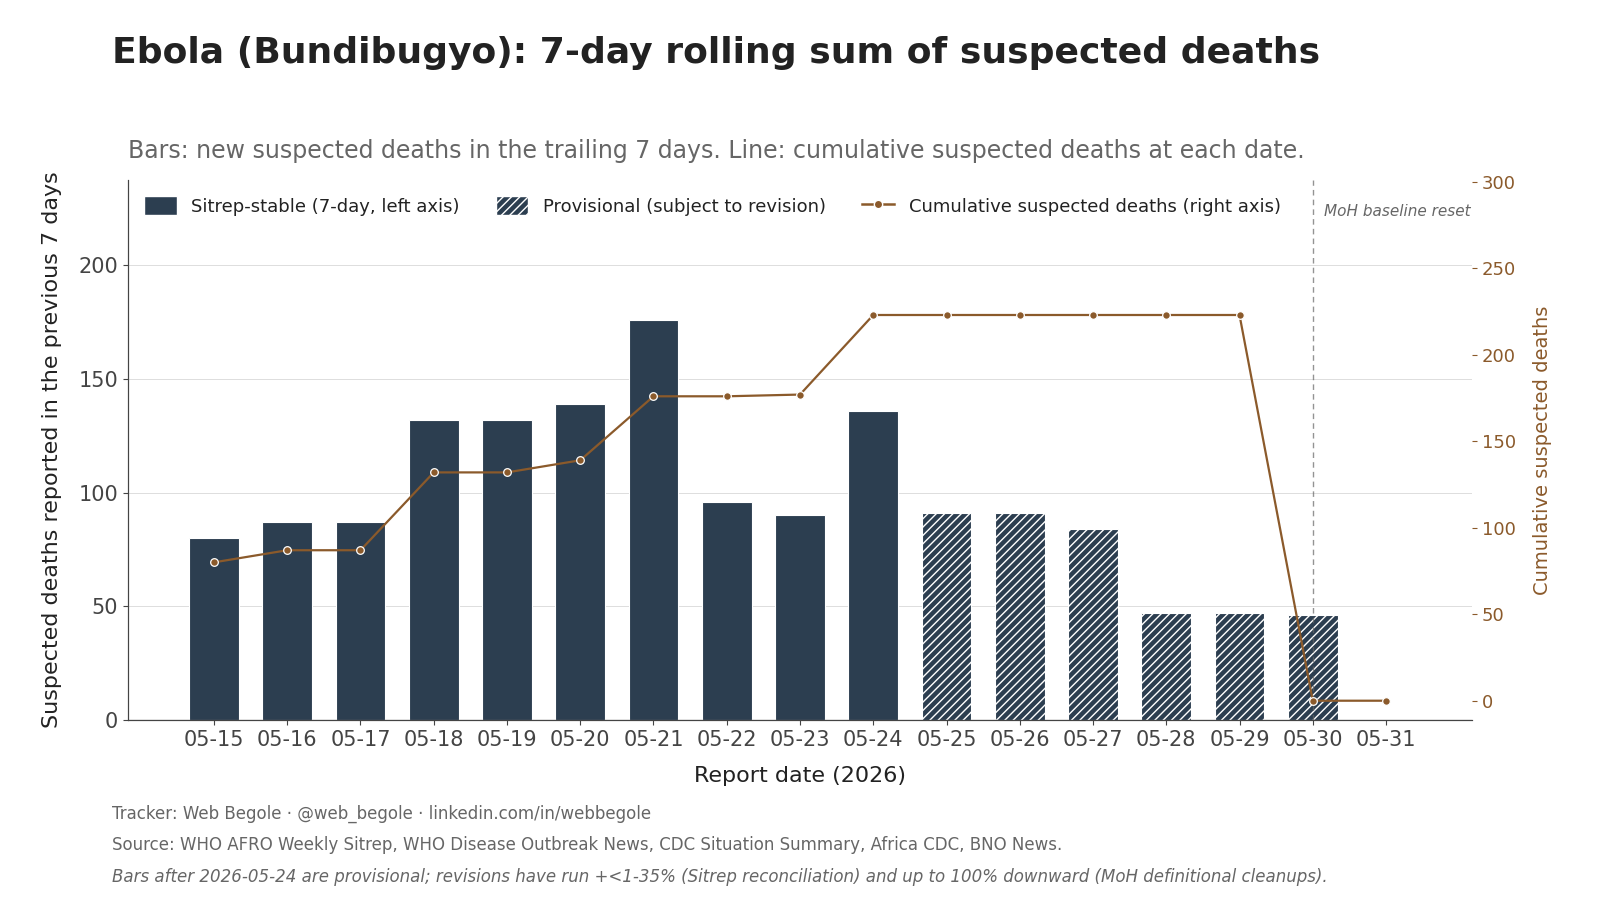
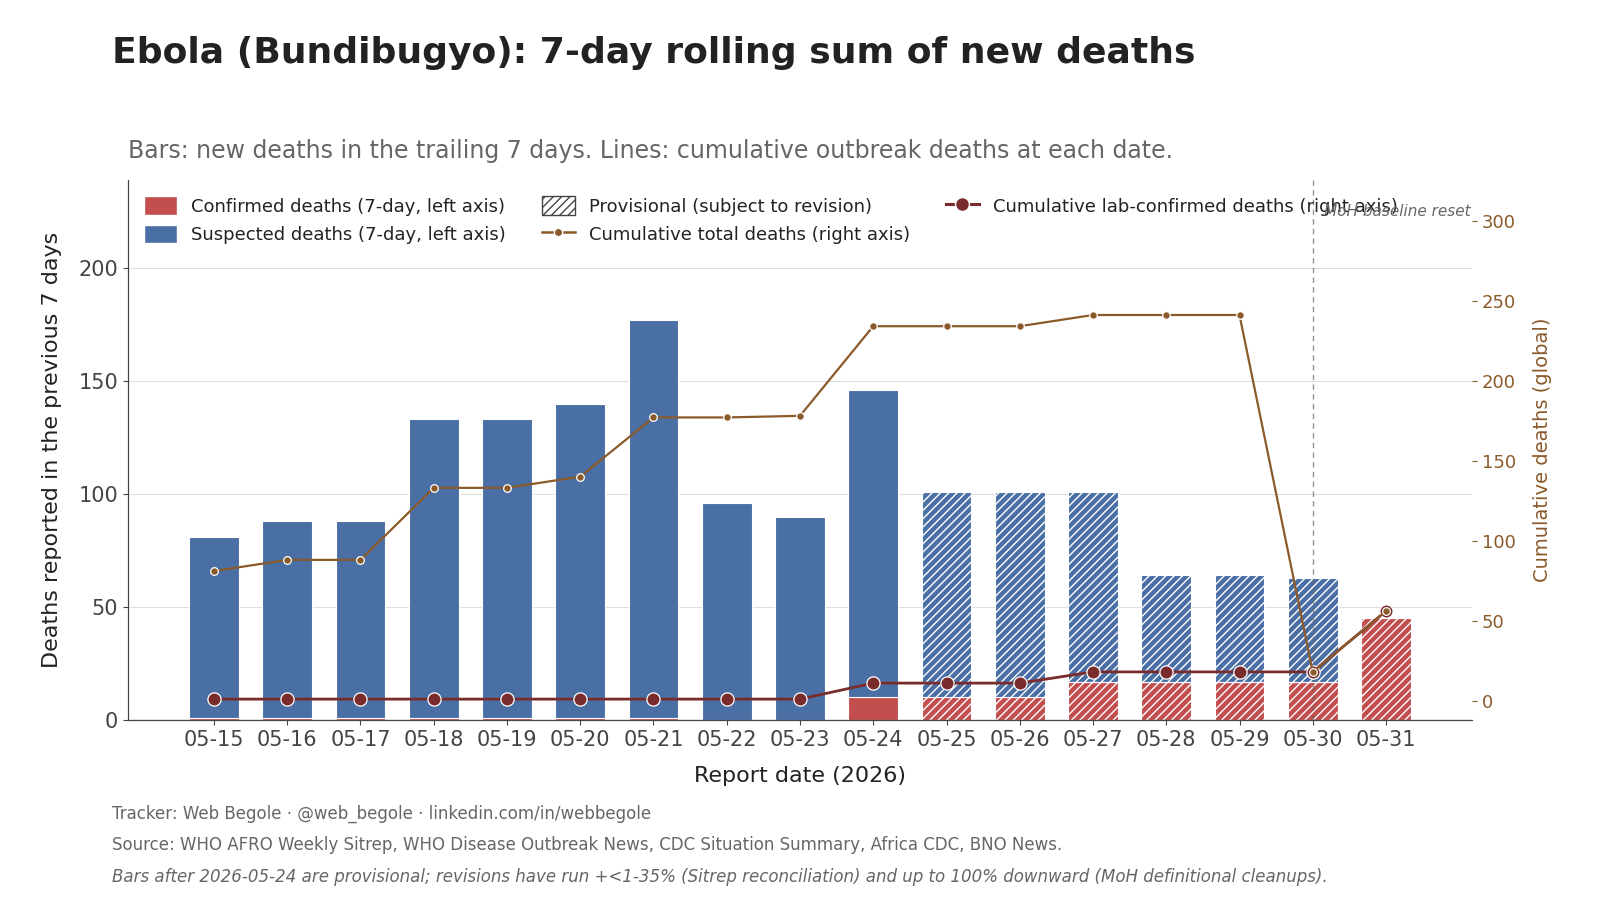
Schema: add confirmed_deaths_global column; restructure deaths chart
The deaths chart was showing 0 new deaths in the 7-day rolling window on
May 31, technically true for the suspected-deaths column but materially
misleading: DRC ran +38 lab confirmations of previously-probable deaths on
that date, and they live in confirmed_deaths, which the chart didn't know
about.

- Add confirmed_deaths_global column to data/timeseries.csv (column 6).
  Backfill historical values from country_breakdown.csv DRC + Uganda sums.
- Update validate.py: schema check, parse loop, cumulative non-decreasing.
- Update build_xlsx.py: main sheet header, Charts sheet daily-delta and
  rolling-sum derivation.
- Restructure render_deaths_chart to mirror render_cases_chart: stacked
  confirmed (bottom) + suspected (top) bars; cumulative-line overlay with
  total deaths (bronze) and confirmed-only (deep red). Title updated from
  'suspected deaths' to 'new deaths'.
- Refresh project-folder captions to use the new schema.

diff --git a/src/generate_charts.py b/src/generate_charts.py
@@ -136,8 +136,9 @@ def load_data(csv_path: Path):
     """Load timeseries.csv and compute daily deltas + 7-day rolling sums.
 
     Returns a list of per-row dicts with keys: date, d_sus, d_conf, d_deaths,
-    cum_sus, cum_conf, cum_total_cases, cum_deaths, r7_sus, r7_conf,
-    r7_deaths, window_size.
+    d_conf_deaths, cum_sus, cum_conf, cum_total_cases, cum_deaths,
+    cum_conf_deaths, cum_total_deaths, r7_sus, r7_conf, r7_deaths,
+    r7_conf_deaths, window_size.
     """
     rows = []
     with open(csv_path, newline="") as f:
@@ -151,6 +152,7 @@ def load_data(csv_path: Path):
                 "sus": int(r["suspected_global"]) if r["suspected_global"] else 0,
                 "conf": int(r["confirmed_global"]) if r["confirmed_global"] else 0,
                 "deaths": int(r["suspected_deaths_global"]) if r["suspected_deaths_global"] else 0,
+                "conf_deaths": int(r["confirmed_deaths_global"]) if r["confirmed_deaths_global"] else 0,
             })
 
     # Baseline: May 14 = 0 across all metrics, so the first row's delta equals
@@ -163,7 +165,7 @@ def load_data(csv_path: Path):
     # bar on the rolling-sum chart. We force the daily delta to zero on the
     # reset day; the cleaned baseline becomes prev for the next iteration so
     # subsequent days compute normal positive deltas against it.
-    baseline = {"sus": 0, "conf": 0, "deaths": 0}
+    baseline = {"sus": 0, "conf": 0, "deaths": 0, "conf_deaths": 0}
     deltas = []
     prev = baseline
     for cur in rows:
@@ -173,6 +175,7 @@ def load_data(csv_path: Path):
             "d_sus": 0 if is_reset else cur["sus"] - prev["sus"],
             "d_conf": 0 if is_reset else cur["conf"] - prev["conf"],
             "d_deaths": 0 if is_reset else cur["deaths"] - prev["deaths"],
+            "d_conf_deaths": 0 if is_reset else cur["conf_deaths"] - prev["conf_deaths"],
             "is_reset": is_reset,
             # Carry the cumulative running totals through so the renderers can
             # plot a secondary "cumulative outbreak total" line alongside the
@@ -181,6 +184,8 @@ def load_data(csv_path: Path):
             "cum_conf": cur["conf"],
             "cum_total_cases": cur["sus"] + cur["conf"],
             "cum_deaths": cur["deaths"],
+            "cum_conf_deaths": cur["conf_deaths"],
+            "cum_total_deaths": cur["deaths"] + cur["conf_deaths"],
         })
         prev = cur
 
@@ -190,6 +195,7 @@ def load_data(csv_path: Path):
         row["r7_sus"] = sum(w["d_sus"] for w in window)
         row["r7_conf"] = sum(w["d_conf"] for w in window)
         row["r7_deaths"] = sum(w["d_deaths"] for w in window)
+        row["r7_conf_deaths"] = sum(w["d_conf_deaths"] for w in window)
         row["window_size"] = len(window)
 
     return deltas
@@ -426,52 +432,90 @@ def render_cases_chart(deltas, out_path: Path):
 
 
 def render_deaths_chart(deltas, out_path: Path):
+    """Deaths chart, structurally identical to the cases chart.
+
+    Stacked bars: confirmed deaths (bottom, the lab-attributed certain layer)
+    + suspected deaths (top, clinical-suspicion-only). Hatched on provisional
+    dates. Two cumulative lines on the right axis: total deaths (bronze) and
+    confirmed deaths (deep red). The gap between the two lines is the share
+    of the running death count still in clinical-suspicion-only status.
+
+    The original deaths chart only showed suspected deaths. After DRC MoH
+    zeroed the suspected-deaths column in the 2026-05-30 cleanup, "suspected
+    deaths" stopped being a useful headline metric: real deaths are still
+    accumulating, just on the confirmed side. Mirroring the cases chart's
+    structure puts both layers on screen and keeps the death story honest.
+    """
     dates = [d["date"] for d in deltas]
     short_dates = [d[5:] for d in dates]
-    deaths = [d["r7_deaths"] for d in deltas]
-    cumulative_deaths = [d["cum_deaths"] for d in deltas]
+    sus_deaths = [d["r7_deaths"] for d in deltas]
+    conf_deaths = [d["r7_conf_deaths"] for d in deltas]
+    cumulative_total_deaths = [d["cum_total_deaths"] for d in deltas]
+    cumulative_conf_deaths = [d["cum_conf_deaths"] for d in deltas]
     provisional = [d > LAST_SITREP_STABLE_DATE for d in dates]
     hatches = ["////" if p else "" for p in provisional]
 
     fig, ax = plt.subplots(figsize=(16, 9), dpi=100)
     xs = list(range(len(dates)))
 
-    ax.bar(xs, deaths, color=COLOR_DEATHS, width=0.68,
-           edgecolor="white", linewidth=0.8, hatch=hatches)
+    # Stacked bars: confirmed deaths on bottom (the certain layer), suspected
+    # deaths on top. Mirrors the cases chart's confirmed-cases-on-bottom
+    # convention so a viewer can read both charts the same way.
+    ax.bar(xs, conf_deaths, color=COLOR_CONFIRMED, width=0.68,
+           label="Confirmed deaths", edgecolor="white", linewidth=0.8,
+           hatch=hatches)
+    ax.bar(xs, sus_deaths, bottom=conf_deaths, color=COLOR_SUSPECTED,
+           width=0.68, label="Suspected deaths", edgecolor="white",
+           linewidth=0.8, hatch=hatches)
 
-    # Headroom above the tallest bar so the legend (anchored upper-left)
-    # doesn't collide with the data.
-    if deaths:
-        bar_max = max(deaths)
+    # Headroom above the tallest stacked bar so the legend (anchored
+    # upper-left) doesn't collide with the data.
+    stacked_tops = [s + c for s, c in zip(sus_deaths, conf_deaths)]
+    if stacked_tops:
+        bar_max = max(stacked_tops)
         if bar_max > 0:
             ax.set_ylim(top=bar_max * 1.35)
 
-    # Overlay: cumulative suspected deaths on a secondary axis.
+    # Overlay: two cumulative lines on the secondary axis. The bronze line
+    # is cumulative TOTAL deaths (suspected + confirmed). The deeper-red line
+    # is cumulative LAB-CONFIRMED deaths. The gap between them is the share
+    # of the running death count still in clinical-suspicion-only status.
     ax2 = overlay_cumulative_line(
         ax, xs,
-        series=[(cumulative_deaths, COLOR_CUMULATIVE)],
-        axis_label="Cumulative suspected deaths",
+        series=[
+            (cumulative_total_deaths, COLOR_CUMULATIVE),
+            (cumulative_conf_deaths, COLOR_CUMULATIVE_CONF,
+             {"markersize": 9.5, "linewidth": 2.0}),
+        ],
+        axis_label="Cumulative deaths (global)",
+        axis_color=COLOR_CUMULATIVE,
     )
 
     # Mark any MoH baseline-reset dates so the cumulative-line drop reads as
     # a documented methodology cleanup, not as the outbreak reversing.
     mark_baseline_resets(ax, dates)
 
-    # Legend with Patch proxies so the hatched swatch renders, plus the line.
+    # Build a custom legend with Patch proxies so the hatched swatch renders.
     legend_handles = [
-        Patch(facecolor=COLOR_DEATHS, edgecolor="white",
-              label="Sitrep-stable (7-day, left axis)"),
+        Patch(facecolor=COLOR_CONFIRMED, edgecolor="white", label="Confirmed deaths (7-day, left axis)"),
+        Patch(facecolor=COLOR_SUSPECTED, edgecolor="white", label="Suspected deaths (7-day, left axis)"),
     ]
     if any(provisional):
         legend_handles.append(
-            Patch(facecolor=COLOR_DEATHS, edgecolor="white", hatch="////",
+            Patch(facecolor="white", edgecolor=COLOR_AXIS, hatch="////",
                   label="Provisional (subject to revision)")
         )
     legend_handles.append(
         Line2D([0], [0], color=COLOR_CUMULATIVE, linewidth=1.8,
                marker="o", markersize=6, markerfacecolor=COLOR_CUMULATIVE,
                markeredgecolor="white",
-               label="Cumulative suspected deaths (right axis)")
+               label="Cumulative total deaths (right axis)")
+    )
+    legend_handles.append(
+        Line2D([0], [0], color=COLOR_CUMULATIVE_CONF, linewidth=2.2,
+               marker="o", markersize=10, markerfacecolor=COLOR_CUMULATIVE_CONF,
+               markeredgecolor="white",
+               label="Cumulative lab-confirmed deaths (right axis)")
     )
     leg = ax.legend(handles=legend_handles, loc="upper left", frameon=False,
                     fontsize=13, handlelength=1.8, handleheight=1.2, ncol=3)
@@ -481,15 +525,15 @@ def render_deaths_chart(deltas, out_path: Path):
     ax.set_xticks(xs)
     ax.set_xticklabels(short_dates)
     ax.set_xlabel("Report date (2026)", labelpad=12)
-    ax.set_ylabel("Suspected deaths reported in the previous 7 days", labelpad=12)
+    ax.set_ylabel("Deaths reported in the previous 7 days", labelpad=12)
 
     ax.yaxis.set_major_formatter(mticker.FuncFormatter(lambda x, _: f"{int(x):,}"))
     ax.grid(axis="x", visible=False)
     ax.axhline(0, color=COLOR_AXIS, linewidth=0.8)
 
-    fig.suptitle("Ebola (Bundibugyo): 7-day rolling sum of suspected deaths",
+    fig.suptitle("Ebola (Bundibugyo): 7-day rolling sum of new deaths",
                  fontsize=26, fontweight="bold", color=COLOR_TEXT, x=0.07, ha="left", y=0.96)
-    ax.set_title("Bars: new suspected deaths in the trailing 7 days. Line: cumulative suspected deaths at each date.",
+    ax.set_title("Bars: new deaths in the trailing 7 days. Lines: cumulative outbreak deaths at each date.",
                  fontsize=17, fontweight="normal", color=COLOR_SUBTLE,
                  loc="left", pad=16)
 

diff --git a/src/build_xlsx.py b/src/build_xlsx.py
@@ -83,7 +83,7 @@ def build_main_sheet(wb, ts_csv: Path, notes_md: Path):
     # Title
     ws.cell(1, 1, value="2026 Ebola (Bundibugyo) Outbreak: Daily Case Counts (global)")
     ws.cell(1, 1).font = TITLE_FONT
-    ws.merge_cells("A1:G1")
+    ws.merge_cells("A1:H1")
 
     # Subtitle / description
     ws.cell(2, 1, value=(
@@ -93,7 +93,7 @@ def build_main_sheet(wb, ts_csv: Path, notes_md: Path):
     ))
     ws.cell(2, 1).font = SUBTITLE_FONT
     ws.cell(2, 1).alignment = LEFT_WRAP
-    ws.merge_cells("A2:G2")
+    ws.merge_cells("A2:H2")
     ws.row_dimensions[2].height = 30
 
     # Headers (row 4)
@@ -103,10 +103,11 @@ def build_main_sheet(wb, ts_csv: Path, notes_md: Path):
         "Confirmed Cases\n(Global)",
         "Total Cases\n(Global)",
         "Suspected Deaths\n(Global)",
+        "Confirmed Deaths\n(Global)",
         "Primary Source",
         "Source Timestamp",
     ]
-    widths = [16, 16, 16, 16, 16, 48, 16]
+    widths = [16, 16, 16, 16, 16, 16, 48, 16]
     write_headers(ws, headers, row=4, widths=widths)
 
     # Data rows (starting row 5)
@@ -120,10 +121,11 @@ def build_main_sheet(wb, ts_csv: Path, notes_md: Path):
             ws.cell(row, 3, value=_int_or_none(r["confirmed_global"]))
             ws.cell(row, 4, value=_int_or_none(r["total_global"]))
             ws.cell(row, 5, value=_int_or_none(r["suspected_deaths_global"]))
-            ws.cell(row, 6, value=r["primary_source"])
-            ws.cell(row, 7, value=r["source_timestamp"])
-            apply_data_style(ws, row, n_cols=7, is_alt=(i % 2 == 1),
-                             source_cols=(6, 7))
+            ws.cell(row, 6, value=_int_or_none(r["confirmed_deaths_global"]))
+            ws.cell(row, 7, value=r["primary_source"])
+            ws.cell(row, 8, value=r["source_timestamp"])
+            apply_data_style(ws, row, n_cols=8, is_alt=(i % 2 == 1),
+                             source_cols=(7, 8))
         last_data_row = data_start + i
 
     # NOTES block
@@ -141,7 +143,7 @@ def build_main_sheet(wb, ts_csv: Path, notes_md: Path):
             ws.cell(notes_row, 1).font = NOTE_FONT
             ws.cell(notes_row, 1).alignment = LEFT_WRAP
             ws.merge_cells(start_row=notes_row, start_column=1,
-                           end_row=notes_row, end_column=7)
+                           end_row=notes_row, end_column=8)
             notes_row += 1
 
     ws.freeze_panes = "A5"
@@ -155,7 +157,7 @@ def build_charts_sheet(wb, ts_csv: Path, window: int = 7):
 
     ws.cell(1, 1, value="7-day rolling sums of daily changes (global)")
     ws.cell(1, 1).font = TITLE_FONT
-    ws.merge_cells("A1:H1")
+    ws.merge_cells("A1:J1")
 
     ws.cell(2, 1, value=(
         "Derived from the main timeseries. Charts live as PNG files in "
@@ -163,19 +165,21 @@ def build_charts_sheet(wb, ts_csv: Path, window: int = 7):
     ))
     ws.cell(2, 1).font = SUBTITLE_FONT
     ws.cell(2, 1).alignment = LEFT_WRAP
-    ws.merge_cells("A2:H2")
+    ws.merge_cells("A2:J2")
 
     headers = [
         "Date",
         "Daily Δ Suspected",
         "Daily Δ Confirmed",
         "Daily Δ Suspected Deaths",
+        "Daily Δ Confirmed Deaths",
         "Suspected cases (7-day sum)",
         "Confirmed cases (7-day sum)",
         "Suspected deaths (7-day sum)",
+        "Confirmed deaths (7-day sum)",
         "Window (days)",
     ]
-    widths = [14, 18, 18, 22, 24, 24, 24, 14]
+    widths = [14, 18, 18, 22, 22, 24, 24, 24, 24, 14]
     write_headers(ws, headers, row=4, widths=widths)
 
     # Compute deltas + rolling sums from CSV
@@ -188,9 +192,10 @@ def build_charts_sheet(wb, ts_csv: Path, window: int = 7):
                 "sus": int(r["suspected_global"] or 0),
                 "conf": int(r["confirmed_global"] or 0),
                 "deaths": int(r["suspected_deaths_global"] or 0),
+                "conf_deaths": int(r["confirmed_deaths_global"] or 0),
             })
 
-    prev = {"sus": 0, "conf": 0, "deaths": 0}
+    prev = {"sus": 0, "conf": 0, "deaths": 0, "conf_deaths": 0}
     deltas = []
     for cur in rows:
         deltas.append({
@@ -198,6 +203,7 @@ def build_charts_sheet(wb, ts_csv: Path, window: int = 7):
             "d_sus": cur["sus"] - prev["sus"],
             "d_conf": cur["conf"] - prev["conf"],
             "d_deaths": cur["deaths"] - prev["deaths"],
+            "d_conf_deaths": cur["conf_deaths"] - prev["conf_deaths"],
         })
         prev = cur
 
@@ -206,6 +212,7 @@ def build_charts_sheet(wb, ts_csv: Path, window: int = 7):
         row["r7_sus"] = sum(w["d_sus"] for w in win)
         row["r7_conf"] = sum(w["d_conf"] for w in win)
         row["r7_deaths"] = sum(w["d_deaths"] for w in win)
+        row["r7_conf_deaths"] = sum(w["d_conf_deaths"] for w in win)
         row["window"] = len(win)
 
         r = 5 + i
@@ -213,11 +220,13 @@ def build_charts_sheet(wb, ts_csv: Path, window: int = 7):
         ws.cell(r, 2, value=row["d_sus"])
         ws.cell(r, 3, value=row["d_conf"])
         ws.cell(r, 4, value=row["d_deaths"])
-        ws.cell(r, 5, value=row["r7_sus"])
-        ws.cell(r, 6, value=row["r7_conf"])
-        ws.cell(r, 7, value=row["r7_deaths"])
-        ws.cell(r, 8, value=row["window"])
-        apply_data_style(ws, r, n_cols=8, is_alt=(i % 2 == 1))
+        ws.cell(r, 5, value=row["d_conf_deaths"])
+        ws.cell(r, 6, value=row["r7_sus"])
+        ws.cell(r, 7, value=row["r7_conf"])
+        ws.cell(r, 8, value=row["r7_deaths"])
+        ws.cell(r, 9, value=row["r7_conf_deaths"])
+        ws.cell(r, 10, value=row["window"])
+        apply_data_style(ws, r, n_cols=10, is_alt=(i % 2 == 1))
 
     return ws
 

diff --git a/src/validate.py b/src/validate.py
@@ -45,6 +45,7 @@ EXPECTED_TIMESERIES_COLS = [
     "confirmed_global",
     "total_global",
     "suspected_deaths_global",
+    "confirmed_deaths_global",
     "primary_source",
     "source_timestamp",
 ]
@@ -78,6 +79,7 @@ CUMULATIVE_TIMESERIES_COLS = [
     "confirmed_global",
     "total_global",
     "suspected_deaths_global",
+    "confirmed_deaths_global",
 ]
 
 # Columns in country_breakdown.csv that are cumulative per country.
@@ -181,12 +183,14 @@ def validate_timeseries(failures: list) -> list[dict]:
             conf = parse_int(r["confirmed_global"])
             total = parse_int(r["total_global"])
             deaths = parse_int(r["suspected_deaths_global"])
+            conf_deaths = parse_int(r["confirmed_deaths_global"])
         except ValueError as e:
             fail(failures, f"timeseries.csv row {i}", f"non-numeric in cumulative column: {e}")
             parsed.append(None)
             continue
         for label, v in (("suspected_global", sus), ("confirmed_global", conf),
-                         ("total_global", total), ("suspected_deaths_global", deaths)):
+                         ("total_global", total), ("suspected_deaths_global", deaths),
+                         ("confirmed_deaths_global", conf_deaths)):
             if v is not None and v < 0:
                 fail(failures, f"timeseries.csv row {i}", f"{label} is negative: {v}")
         # If all three of sus/conf/total are present, total must equal sus + conf.
@@ -195,14 +199,16 @@ def validate_timeseries(failures: list) -> list[dict]:
                 fail(failures, f"timeseries.csv row {i} ({r['report_date']})",
                      f"total_global ({total}) != suspected_global ({sus}) + confirmed_global ({conf})")
         parsed.append({"row": i, "date": r["report_date"], "sus": sus,
-                       "conf": conf, "total": total, "deaths": deaths})
+                       "conf": conf, "total": total, "deaths": deaths,
+                       "conf_deaths": conf_deaths})
 
     # Cumulative non-decreasing check (the no-dip rule).
     # Rows listed in NO_DIP_EXEMPTIONS_TIMESERIES bypass the check on the named
     # columns; the new lower baseline becomes the comparison point for subsequent
     # rows. See METHODOLOGY.md "MoH methodology-change carve-out".
     for col_key, col_name in (("sus", "suspected_global"), ("conf", "confirmed_global"),
-                              ("total", "total_global"), ("deaths", "suspected_deaths_global")):
+                              ("total", "total_global"), ("deaths", "suspected_deaths_global"),
+                              ("conf_deaths", "confirmed_deaths_global")):
         prev = None
         prev_date = None
         for p in parsed:

diff --git a/data/notes.md b/data/notes.md
@@ -125,3 +125,6 @@ Methodology decisions, source-conflict resolutions, and revision log. Bullets ar
 - 2026-05-31 (PM2 run, validator): Added NO_DIP_EXEMPTIONS_TIMESERIES and NO_DIP_EXEMPTIONS_BREAKDOWN dicts at the top of src/validate.py with named exemptions per the carve-out. The cumulative non-decreasing checks now skip exempt (date, column) and (date, country, column) tuples. Validator passes clean after revisions.
 - 2026-05-31 (PM2 run, story.md): "Latest update" rewritten to lead with the DRC MoH cleanup and the new lower figures, explicitly explaining that the visual drop on the chart is the surveillance signal working as intended (suspected-cases bar deliberately wide → lab capacity catches up → negatives get removed → tighter denominator). The WHO/DRC Joint Statement section retained as the second paragraph. "Story so far" unchanged.
 - 2026-05-31 (PM2 run, declarations.csv): No change. CDC HAN, CDC Travel Health Notice levels, WHO PHEIC, Uganda border closure all unchanged. The carve-out is a tracker methodology refinement, not a declaration change.
+- 2026-05-31 (PM3 run, schema change per Web): Added `confirmed_deaths_global` column to data/timeseries.csv schema, between `suspected_deaths_global` and `primary_source`. Rationale: after the DRC MoH cleanup zeroed the suspected-deaths column on 2026-05-30, "suspected deaths" stopped being a useful headline metric. Real deaths are still accumulating; they're just on the confirmed side now (DRC ran +38 lab confirmations on 31 May for a DRC conf_deaths total of 55). The deaths chart was showing 0 new deaths in the 7-day rolling window on May 31, which was technically true for the suspected column but materially misleading. Schema is now: report_date, suspected_global, confirmed_global, total_global, suspected_deaths_global, confirmed_deaths_global, primary_source, source_timestamp. Backfilled historical values from country_breakdown.csv DRC + Uganda sums: May 15-23 = 1 (Uganda only); May 24-26 = 11 (DRC 10 + Uganda 1); May 27-30 = 18 (DRC 17 + Uganda 1); May 31 = 56 (DRC 55 + Uganda 1). Cumulative monotonically non-decreasing throughout; no NO_DIP_EXEMPTIONS entry needed for the new column. src/validate.py updated to include confirmed_deaths_global in EXPECTED_TIMESERIES_COLS and CUMULATIVE_TIMESERIES_COLS, plus the parse loop. src/build_xlsx.py updated to add the new column to the main sheet header and the Charts sheet's daily-delta + rolling-sum derivation. Validator passes clean.
+- 2026-05-31 (PM3 run, deaths chart restructure): Reworked render_deaths_chart in src/generate_charts.py to mirror render_cases_chart structurally. Bars now stacked: confirmed deaths (COLOR_CONFIRMED, bottom) + suspected deaths (COLOR_SUSPECTED, top); hatched on provisional dates. Cumulative-line overlay now carries two lines: total deaths (sus + conf, COLOR_CUMULATIVE bronze) and confirmed-only deaths (COLOR_CUMULATIVE_CONF deep red), matching the cases chart's two-line treatment. The gap between the lines is the share of the running death count still in clinical-suspicion-only status. Chart suptitle changed from "7-day rolling sum of suspected deaths" to "7-day rolling sum of new deaths"; axis label and inline title updated to match. Legend rebuilt: confirmed deaths Patch + suspected deaths Patch + provisional swatch + cumulative-total Line2D + cumulative-confirmed Line2D. The MoH-baseline-reset marker (vertical dashed line + "MoH baseline reset" label) carries over from the prior commit.
+- 2026-05-31 (PM3 run, captions): Refreshed YYYY-MM-DD_caption-x.txt and YYYY-MM-DD_caption-linkedin.txt in the project folder root to reflect the cleaned-baseline cumulative figures (447 sus / 234 conf / 681 total cases; 0 sus deaths / 56 conf deaths) and the 7-day rolling sums under the new schema (+120 cases, +45 deaths). X caption at 251 chars (under 270 limit).